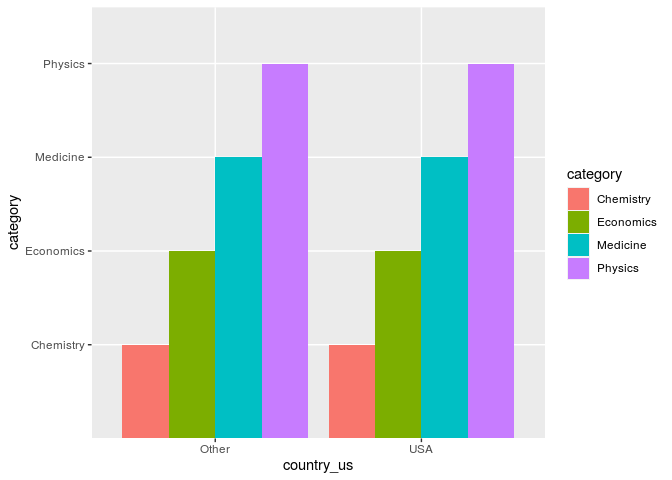
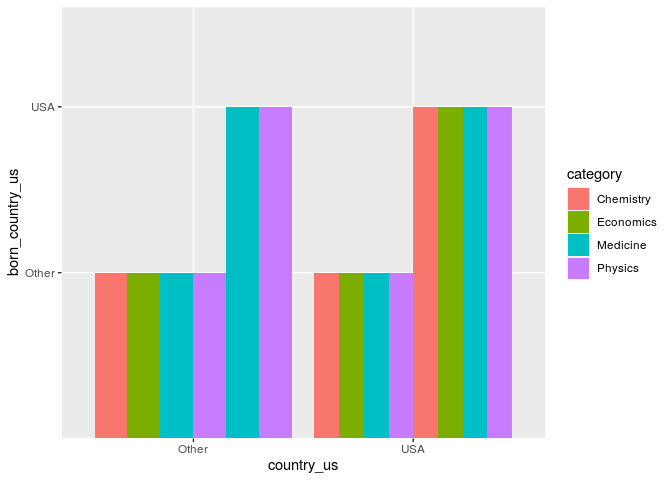
Ex 4 and 5

diff --git a/lab-05.md b/lab-05.md
@@ -131,6 +131,13 @@ your Git pane is cleared up afterwards.d*
     -   Each bar should have segments for whether the laureate was born
         in the US or not.
 
+``` r
+nobel_living_science <- nobel_living_science %>% mutate( born_country_us = if_else(born_country == "USA", "USA", "Other"))
+ nobel_living_science %>%ggplot(aes(x = country_us,y=born_country_us, fill = category)) + geom_bar(stat = "identity", position = "dodge", orientation="horizontal")
+```
+
+![](lab-05_files/figure-gfm/unnamed-chunk-8-1.png)<!-- -->
+
 Knit, *commit, and push your changes to GitHub with an appropriate
 commit message. Make sure to commit and push all changed files so that
 your Git pane is cleared up afterwards.*
